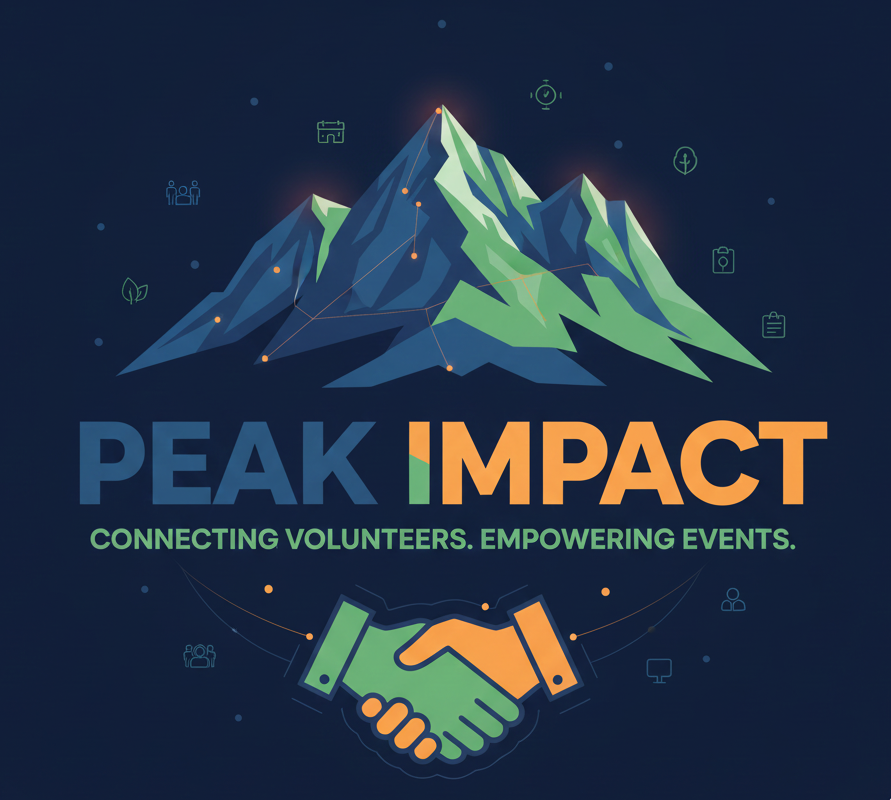
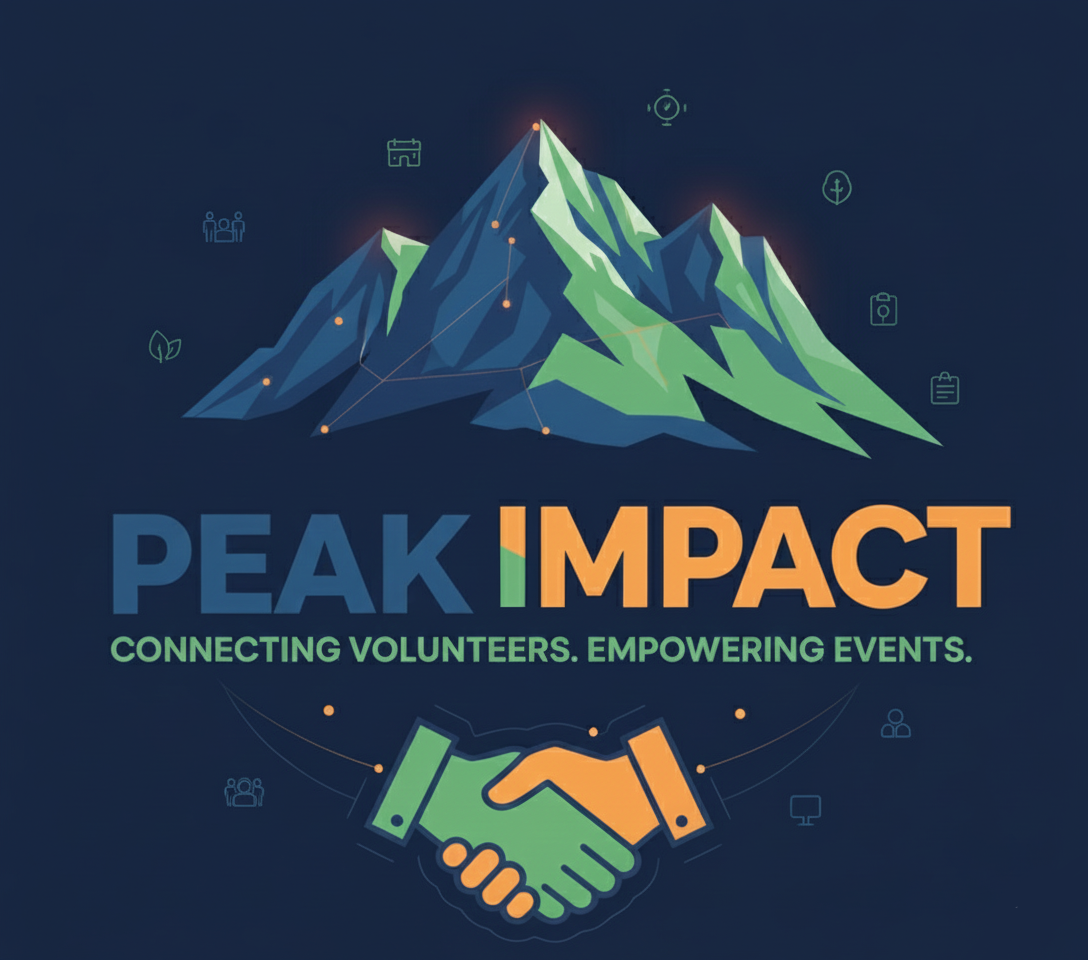
fixed issue with sidebar leaking off screen
added rudimentary about pages

added new landing page image and fixed landing page format

diff --git a/app/layouts/landing.vue b/app/layouts/landing.vue
@@ -2,7 +2,16 @@
   <div class="landing-layout">
     <header class="landing-header">
       <div class="header-container">
-        <h1 class="logo">Peak Impact 🏔</h1>
+        <div class="left">
+          <NuxtLink to="/" class="logo-text">Peak Impact</NuxtLink>
+          <div v-if="route.fullPath === '/'">
+            <NuxtLink to="/about" class="btn btn-ghost" >About</NuxtLink>
+          </div>
+          <div v-else class="about-buttons">
+            <NuxtLink to="/about/volunteers" class="btn btn-ghost" >Volunteers</NuxtLink>
+            <NuxtLink to="/about/organizations" class="btn btn-ghost" >Organizations</NuxtLink>
+          </div>
+        </div>
         <div class="auth-buttons">
           <NuxtLink to="/login" class="btn btn-ghost">Log In</NuxtLink>
           <NuxtLink to="/signup" class="btn btn-primary">Sign Up</NuxtLink>
@@ -22,6 +31,11 @@
   </div>
 </template>
 
+<script setup>
+  import { useRoute } from 'vue-router';
+  const route = useRoute();
+</script>
+
 <style scoped>
 
 :root {
@@ -32,29 +46,37 @@
 .landing-layout {
   display: flex;
   flex-direction: column;
-  min-height: 100vh;
+  height: 100%;
   overflow: hidden;
 }
+
 .landing-header {
   height: var(--landing-header-height);
   padding: 1rem 0;
-  border-bottom: 1px solid var(--color-border);
-  background: white;
+  background: #1b273e;
+  color: var(--color-white);
+}
+
+.landing-header .left {
+  display: flex;
+  flex-direction: row;
+  align-items: center;
+  gap: 1rem;
 }
 
 .landing-main {
-  flex: 1 1 auto;
+  height: 100%;
   display: flex;
   align-items: center;
   justify-content: center;
   box-sizing: border-box;
   overflow: hidden;
-  background-color: var(--color-primary);
+  background-color: #1b273e;
 }
 
 .landing-main-inner {
   width: 100%;
-  height: calc(100vh - var(--landing-header-height) - var(--landing-footer-height));
+  height: 100%;
   display: flex;
   align-items: center;
   justify-content: center;
@@ -70,8 +92,9 @@
   align-items: center;
 }
 
-.logo {
-  color: var(--color-primary);
+
+.logo-text{
+  color: var(--color-white);
   font-size: 1.5rem;
   font-weight: 800;
 }
@@ -85,7 +108,8 @@
 }
 
 .btn-ghost {
-  color: var(--color-text-main);
+  color: var(--color-white);
+  border: 1px solid var(--color-white);
 }
 
 .btn-primary {
@@ -98,6 +122,6 @@
   text-align: center;
   padding: 2rem;
   color: var(--color-accent);
-  background-color: var(--color-primary);
+  background-color: #1b273e;
 }
 </style>

diff --git a/app/pages/about/organizations.vue b/app/pages/about/organizations.vue
@@ -1,0 +1,36 @@
+<template>
+    <div class="about-organizations-page">
+      <h1>Peak Impact For Organizations</h1>
+      <p>
+        At Peak Impact, we understand the vital role that organizations play in driving positive change within our community. We are committed to supporting organizations by connecting them with dedicated volunteers who are eager to contribute their time and skills. Our platform makes it easy for organizations to post volunteer opportunities, manage applications, and engage with a network of passionate individuals ready to make a difference.
+      </p>
+    </div>
+</template>
+
+<script setup>
+  definePageMeta({
+    layout: 'landing',
+  });
+</script>
+
+<style scoped>
+.about-organizations-page {
+  height: 100%;
+  width: 100%;
+  display: flex;
+  flex-direction: column;
+  align-items: start;
+  justify-content: top;
+  padding: 2rem 5rem;
+  border-radius: 8px;
+}
+.about-organizations-page h1 {
+  color: var(--color-white);
+}
+.about-organizations-page p {
+  margin-top: 1rem;
+  color: var(--color-white);
+  font-size: 1.2rem;
+  line-height: 1.6;
+}
+</style>

diff --git a/app/pages/about/volunteers.vue b/app/pages/about/volunteers.vue
@@ -1,0 +1,38 @@
+<template>
+    <div class="about-volunteers-page">
+      <h1>Peak Impact For Volunteers</h1>
+      <p>
+        At Peak Impact, we believe that volunteers are the heart of our community. We are dedicated to connecting passionate individuals with organizations that need their help. Whether you have a few hours to spare or are looking for a long-term commitment, Peak Impact provides a platform to find meaningful volunteer opportunities that align with your interests and skills.
+      </p>
+    </div>
+</template>
+
+<script setup>
+  definePageMeta({
+    layout: 'landing',
+  });
+</script>
+
+<style scoped>
+.about-volunteers-page {
+  height: 100%;
+  width: 100%;
+  display: flex;
+  flex-direction: column;
+  align-items: start;
+  justify-content: top;
+  padding: 2rem 5rem;
+  border-radius: 8px;
+}
+
+.about-volunteers-page h1 {
+  color: var(--color-white);
+}
+
+.about-volunteers-page p {
+  margin-top: 1rem;
+  color: var(--color-white);
+  font-size: 1.2rem;
+  line-height: 1.6;
+}
+</style>

diff --git a/app/pages/index.vue b/app/pages/index.vue
@@ -1,6 +1,6 @@
 <template>
   <div class="landing-content">
-    <img src="~/assets/images/landing-image.png" class="landing-image" alt="two shaking hands in front of a mountain with the words: peak impact"/>
+    <img class="landing-image" src="~/assets/images/landing-image.png" alt="two shaking hands in front of a mountain with the words: peak impact"/>
   </div>
 </template>
 
@@ -17,27 +17,20 @@
   height: 100%;
   display: flex;
   justify-content: center;
-  align-items: top;
-  background-color: var(--color-primary);
+  background-color: #1b273e;
   box-sizing: border-box;
   overflow: hidden;
 }
 
 .landing-image {
-  max-width: 100%;
-  max-height: 100%;
-  object-fit: contain;
-  display: block;
+  height: 960 px;
+  width: auto;
 }
 
 .left {
   display: flex;
   align-items: center;
   gap: 1rem;
-}
-
-.logo {
-  height: 40px;
 }
 
 .page-title {

diff --git a/app/pages/about/index.vue b/app/pages/about/index.vue
@@ -1,0 +1,38 @@
+<template>
+  <div class="about-page">
+    <h1>Our Mission</h1>
+    <p>
+      At Peak Impact, our mission is to connect passionate volunteers with impactful organizations in Colorado Springs. We strive to create a community where everyone can contribute their time and skills to make a positive difference in the lives of others.
+    </p>
+  </div>
+</template>
+
+<script setup>
+  definePageMeta({
+    layout: 'landing',
+  });
+</script>
+
+<style scoped>
+.about-page {
+  height: 100%;
+  width: 100%;
+  display: flex;
+  flex-direction: column;
+  align-items: start;
+  justify-content: top;
+  padding: 2rem 5rem;
+  border-radius: 8px;
+}
+
+.about-page h1 {
+  color: var(--color-white);
+}
+
+.about-page p {
+  margin-top: 1rem;
+  color: var(--color-white);
+  font-size: 1.2rem;
+  line-height: 1.6;
+}
+</style>

diff --git a/app/components/NavSidebar.vue b/app/components/NavSidebar.vue
@@ -73,12 +73,8 @@ const handleLogout = () => {
 <style scoped>
 /* Sidebar Container */
 .sidebar {
-  top: 0;
-  bottom: 0; /* Anchors to bottom edge */
-  left: 0;
-  
-  height: 100dvh;
-  width: 260px;
+  height: 100%;
+  width: 100%;
   display: flex;
   flex-direction: column;
   padding: 1.5rem;
@@ -87,6 +83,7 @@ const handleLogout = () => {
   border-right: 1px solid var(--color-border);
   z-index: 50;
   overflow: hidden;
+  box-sizing: border-box;
 }
 
 /* Header & Logo */
